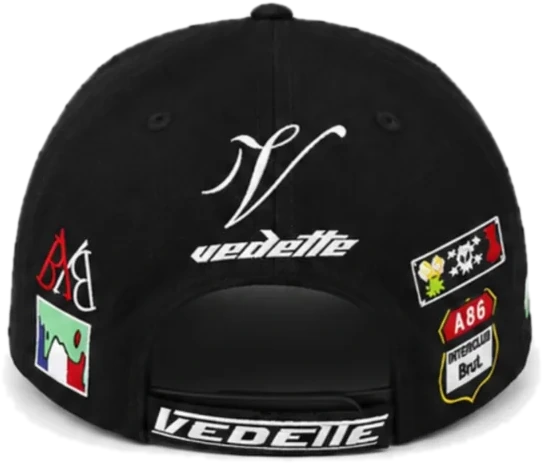
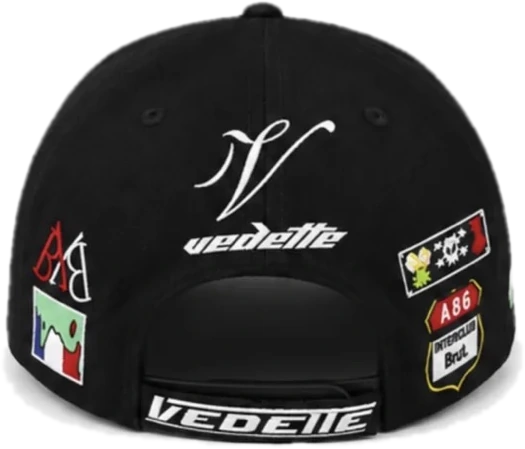
Add the camo cap, real packshots for the black one, and slim the mobile sheet
The camo cap packshot landed, so a tenth of the thirteen pieces on the wall
is now selectable. The black VEDETTE cap's front and back were still crops
lifted out of the wall photograph; they are replaced with the proper
packshots, which also gives its carousel tile a clean product shot.

On a phone the add-to-cart sheet was still eating the screen under the
piece. Title and price now share a line, the description is clamped to two,
and the colour and size pickers sit side by side: 328px down to 216px. The
freed room goes to the piece itself, which rests larger and higher.

The gesture hint was supposed to move out of the sheet's way but was
rendered before it, and a sibling combinator only looks forward — so it sat
unreadable underneath. It is now rendered after the sheet, and rather than
hiding it, it moves up under the header where "glisse pour tourner" is
actually legible while you are turning the piece.

Claude-Session: https://claude.ai/code/session_01JHKczBwFKYFofkfxCnLE6j

diff --git a/src/components/collection/ProductPanel.tsx b/src/components/collection/ProductPanel.tsx
@@ -28,40 +28,51 @@ export default function ProductPanel({
         </svg>
       </button>
 
-      <h2 className="shop-panel-title">{item.name}</h2>
-      <p className="shop-panel-price">{formatPrice(item.price)}</p>
+      {/* The wrappers do nothing on desktop, where the sheet stacks. On a phone
+          they let the title sit beside the price and the two pickers share one
+          row, which is most of what makes the sheet short enough there. */}
+      <div className="shop-panel-head">
+        <h2 className="shop-panel-title">{item.name}</h2>
+        <p className="shop-panel-price">{formatPrice(item.price)}</p>
+      </div>
       <hr className="shop-panel-rule" />
       <p className="shop-panel-desc">{item.description}</p>
 
-      <p className="shop-panel-label">Couleurs</p>
-      <div className="shop-swatches">
-        {item.colors.map((c) => (
-          <button
-            key={c.name}
-            type="button"
-            title={c.name}
-            aria-label={c.name}
-            aria-pressed={color === c.name}
-            className={`shop-swatch ${color === c.name ? "is-active" : ""}`}
-            style={{ background: c.hex }}
-            onClick={() => setColor(c.name)}
-          />
-        ))}
-      </div>
+      <div className="shop-panel-fields">
+        <div className="shop-panel-field">
+          <p className="shop-panel-label">Couleurs</p>
+          <div className="shop-swatches">
+            {item.colors.map((c) => (
+              <button
+                key={c.name}
+                type="button"
+                title={c.name}
+                aria-label={c.name}
+                aria-pressed={color === c.name}
+                className={`shop-swatch ${color === c.name ? "is-active" : ""}`}
+                style={{ background: c.hex }}
+                onClick={() => setColor(c.name)}
+              />
+            ))}
+          </div>
+        </div>
 
-      <p className="shop-panel-label">Tailles</p>
-      <div className="shop-sizes">
-        {item.sizes.map((s) => (
-          <button
-            key={s}
-            type="button"
-            aria-pressed={size === s}
-            className={`shop-size ${size === s ? "is-active" : ""}`}
-            onClick={() => setSize(s)}
-          >
-            {s}
-          </button>
-        ))}
+        <div className="shop-panel-field">
+          <p className="shop-panel-label">Tailles</p>
+          <div className="shop-sizes">
+            {item.sizes.map((s) => (
+              <button
+                key={s}
+                type="button"
+                aria-pressed={size === s}
+                className={`shop-size ${size === s ? "is-active" : ""}`}
+                onClick={() => setSize(s)}
+              >
+                {s}
+              </button>
+            ))}
+          </div>
+        </div>
       </div>
 
       <button

diff --git a/src/app/globals.css b/src/app/globals.css
@@ -1020,18 +1020,39 @@ body {
     height: 300px;
   }
 
-  /* fiche produit : feuille compacte posée au-dessus du carrousel */
+  /* fiche produit : feuille compacte posée au-dessus du carrousel. Elle doit
+     laisser la pièce respirer, donc tout ce qui peut tenir sur une ligne y
+     tient — titre et prix côte à côte, couleurs et tailles côte à côte. */
   .shop-panel {
     left: 10px;
     right: 10px;
     top: auto;
     bottom: 92px;
     width: auto;
-    padding: 15px 16px 16px;
-    max-height: 38vh;
+    padding: 12px 14px 13px;
+    max-height: 30vh;
     overflow-y: auto;
     border-radius: 6px;
     animation: sheet-in 0.4s cubic-bezier(0.22, 1, 0.36, 1) both;
+  }
+
+  .shop-panel-head {
+    display: flex;
+    align-items: baseline;
+    justify-content: space-between;
+    gap: 10px;
+    padding-right: 26px;
+  }
+
+  .shop-panel-fields {
+    display: flex;
+    align-items: flex-start;
+    gap: 16px;
+  }
+
+  .shop-panel-field:last-child {
+    flex: 1;
+    min-width: 0;
   }
 
   @keyframes sheet-in {
@@ -1046,43 +1067,61 @@ body {
   }
 
   .shop-panel-title {
-    font-size: 15px;
-    padding-right: 30px;
+    font-size: 14px;
+    padding-right: 0;
   }
 
   .shop-panel-price {
-    margin-top: 4px;
-    font-size: 17px;
+    margin-top: 0;
+    font-size: 15px;
+    white-space: nowrap;
   }
 
   .shop-panel-rule {
-    margin: 11px 0 10px;
+    margin: 9px 0 8px;
   }
 
+  /* la pièce est juste au-dessus, en grand : deux lignes de texte suffisent */
   .shop-panel-desc {
-    font-size: 11.5px;
-    line-height: 1.5;
+    font-size: 11px;
+    line-height: 1.45;
+    display: -webkit-box;
+    -webkit-box-orient: vertical;
+    -webkit-line-clamp: 2;
+    line-clamp: 2;
+    overflow: hidden;
   }
 
   .shop-panel-label {
-    margin-top: 13px;
-    margin-bottom: 8px;
-    font-size: 11.5px;
+    margin-top: 11px;
+    margin-bottom: 6px;
+    font-size: 10.5px;
   }
 
   .shop-swatch {
-    width: 26px;
-    height: 26px;
+    width: 24px;
+    height: 24px;
+  }
+
+  .shop-sizes {
+    flex-wrap: nowrap;
+    overflow-x: auto;
+    scrollbar-width: none;
+  }
+
+  .shop-sizes::-webkit-scrollbar {
+    display: none;
   }
 
   .shop-size {
-    min-width: 44px;
-    padding: 9px 8px;
+    min-width: 38px;
+    padding: 7px 6px;
+    flex: 0 0 auto;
   }
 
   .shop-cta {
-    margin-top: 14px;
-    padding: 12px;
+    margin-top: 11px;
+    padding: 11px;
     font-size: 11px;
   }
 
@@ -1130,7 +1169,10 @@ body {
     border-radius: 4px;
   }
 
+  /* pendant l'inspection la fiche occupe le bas : l'indication de geste passe
+     au-dessus de la pièce, sous l'en-tête, au lieu de disparaître dessous */
   .shop-panel ~ .shop-hud-compact {
-    display: none;
+    top: 52px;
+    bottom: auto;
   }
 }

diff --git a/src/components/collection/FloatingProduct.tsx b/src/components/collection/FloatingProduct.tsx
@@ -34,11 +34,11 @@ function clamp(v: number, min: number, max: number) {
 
 /** Where the piece comes to rest, centred and floating clear of the UI. */
 function restRect(container: { width: number; height: number }, compact: boolean): Rect {
-  const height = clamp(container.height * (compact ? 0.36 : 0.52), 180, 560);
+  const height = clamp(container.height * (compact ? 0.44 : 0.52), 180, 560);
   const width = height * BOX_ASPECT;
   return {
     left: container.width / 2 - width / 2,
-    top: container.height * (compact ? 0.31 : 0.46) - height / 2,
+    top: container.height * (compact ? 0.34 : 0.46) - height / 2,
     width,
     height,
   };

diff --git a/src/components/collection/CollectionRoom.tsx b/src/components/collection/CollectionRoom.tsx
@@ -260,8 +260,10 @@ export default function CollectionRoom({ compact }: { compact: boolean }) {
       <ShopHeader />
       {!compact && <NavHud compact={false} />}
       {!compact && <CategoryRail />}
-      {compact && <NavHud compact />}
       {displayed && <ProductPanel item={displayed} onClose={() => select(null)} />}
+      {/* after the panel, so the CSS that moves it out of the sheet's way can
+          reach it — a sibling combinator only looks forward */}
+      {compact && <NavHud compact />}
       <ProductRail onStep={step} onPick={open} />
       {!compact && <ShopFooter />}
     </div>

diff --git a/src/data/collection.ts b/src/data/collection.ts
@@ -128,11 +128,12 @@ export const collection: CollectionItem[] = [
     name: "CASQUETTE CAMO",
     price: 45,
     category: "CASQUETTES",
-    description: "Casquette camo noire, visière jaune. Broderie ton sur ton.",
+    description:
+      "Camo digital noir, liseré jaune fluo sous la visière, sangle réglable à boucle D.",
     colors: [{ name: "Camo", hex: "#23231f" }],
     sizes: ["TU"],
     spot: { x: 55.5, y: 56, w: 8.5, h: 8.5 },
-    front: null,
+    front: P + "cap-camo-front.webp",
     back: null,
   },
   {
